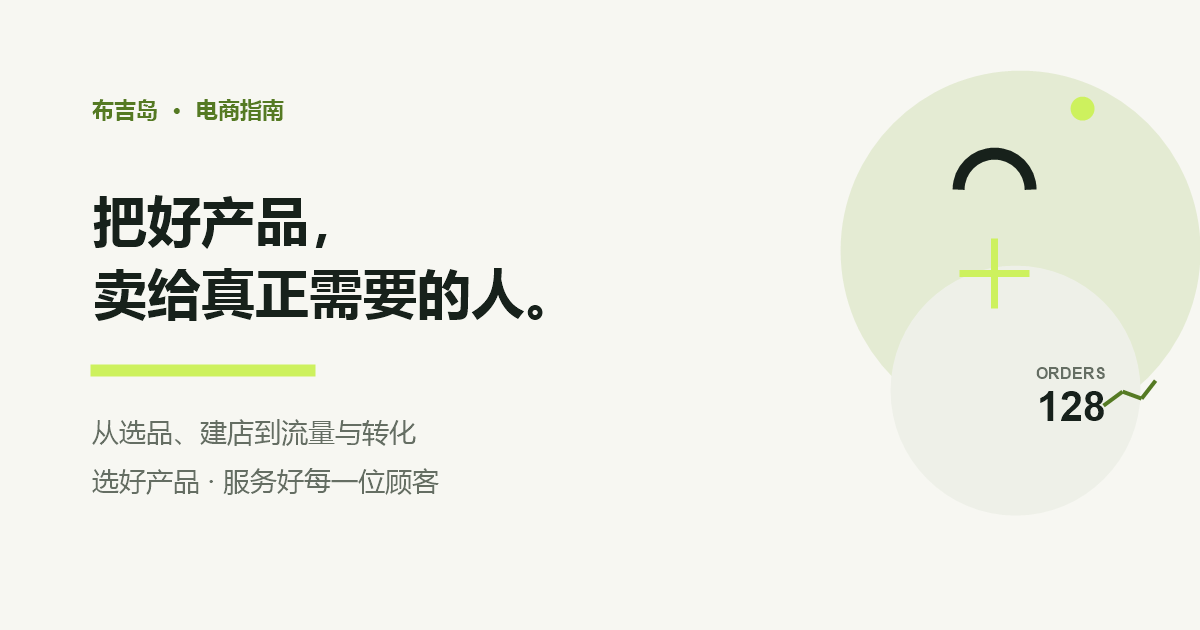
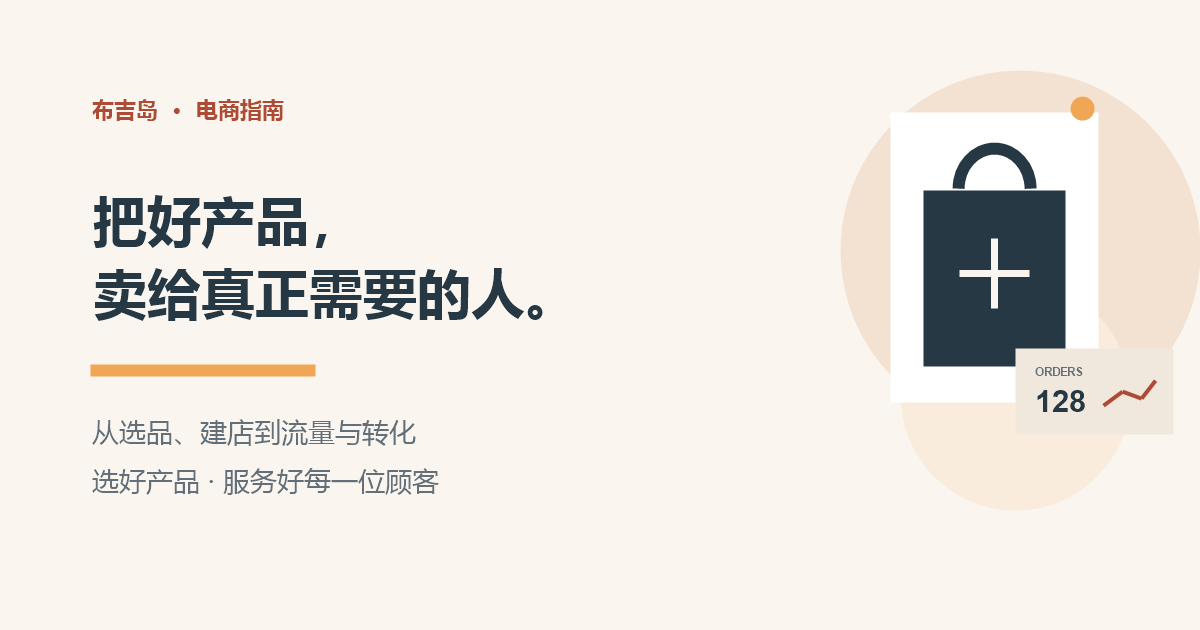
Refresh e-commerce guide color palette

diff --git a/docs/.vitepress/theme/custom.css b/docs/.vitepress/theme/custom.css
@@ -1,56 +1,56 @@
 :root {
-  --vp-c-brand-1: #557a23;
-  --vp-c-brand-2: #496a1d;
-  --vp-c-brand-3: #3f5c19;
-  --vp-c-brand-soft: rgba(151, 191, 72, .14);
-  --vp-home-hero-name-color: #17211b;
-  --vp-home-hero-name-background: linear-gradient(120deg, #17211b 55%, #86aa3a);
-  --vp-button-brand-bg: #17211b;
-  --vp-button-brand-hover-bg: #32482a;
-  --vp-button-brand-active-bg: #263921;
-  --vp-button-brand-border: #17211b;
-  --vp-button-brand-hover-border: #32482a;
-  --vp-button-brand-active-border: #263921;
+  --vp-c-brand-1: #a94b34;
+  --vp-c-brand-2: #913f2d;
+  --vp-c-brand-3: #793323;
+  --vp-c-brand-soft: rgba(169, 75, 52, .12);
+  --vp-home-hero-name-color: #263844;
+  --vp-home-hero-name-background: linear-gradient(120deg, #263844 55%, #b65337);
+  --vp-button-brand-bg: #263844;
+  --vp-button-brand-hover-bg: #354b57;
+  --vp-button-brand-active-bg: #1d2d37;
+  --vp-button-brand-border: #263844;
+  --vp-button-brand-hover-border: #354b57;
+  --vp-button-brand-active-border: #1d2d37;
   --vp-font-family-base: 'Noto Sans SC', 'PingFang SC', 'Microsoft YaHei', sans-serif;
   --vp-font-family-mono: 'DM Mono', 'SFMono-Regular', Consolas, monospace;
-  --vp-c-bg: #f7f7f2;
-  --vp-c-bg-soft: #eef0e8;
-  --vp-c-bg-alt: #f0f1eb;
+  --vp-c-bg: #faf6ef;
+  --vp-c-bg-soft: #f1e8dd;
+  --vp-c-bg-alt: #f5eee6;
 }
 
 .dark {
-  --vp-c-bg: #151b15;
-  --vp-c-bg-alt: #111711;
-  --vp-c-bg-elv: #202820;
-  --vp-c-bg-soft: #1e271d;
-  --vp-c-border: #394536;
-  --vp-c-divider: #2b3628;
-  --vp-c-gutter: #111711;
-  --vp-c-text-1: #edf1e7;
-  --vp-c-text-2: #c0c9b8;
-  --vp-c-text-3: #939d8a;
-  --vp-c-gray-1: #394536;
-  --vp-c-gray-2: #2f3a2c;
-  --vp-c-gray-3: #263024;
-  --vp-c-gray-soft: rgba(205, 241, 94, .08);
-  --vp-c-default-1: #394536;
-  --vp-c-default-2: #2f3a2c;
-  --vp-c-default-3: #263024;
-  --vp-c-default-soft: rgba(205, 241, 94, .08);
-  --vp-c-brand-1: #cdf15e;
-  --vp-c-brand-2: #b9df54;
-  --vp-c-brand-3: #a4c847;
-  --vp-c-brand-soft: rgba(205, 241, 94, .14);
-  --vp-home-hero-name-color: #edf1e7;
-  --vp-home-hero-name-background: linear-gradient(120deg, #edf1e7 55%, #cdf15e);
-  --vp-button-brand-bg: #cdf15e;
-  --vp-button-brand-text: #17211b;
-  --vp-button-brand-hover-bg: #dbf891;
-  --vp-button-brand-hover-text: #17211b;
-  --vp-button-brand-active-bg: #b9df54;
-  --vp-button-brand-border: #cdf15e;
-  --vp-button-brand-hover-border: #dbf891;
-  --vp-button-brand-active-border: #b9df54;
+  --vp-c-bg: #17232d;
+  --vp-c-bg-alt: #141e27;
+  --vp-c-bg-elv: #23323d;
+  --vp-c-bg-soft: #202f39;
+  --vp-c-border: #3c4c56;
+  --vp-c-divider: #2e3e48;
+  --vp-c-gutter: #141e27;
+  --vp-c-text-1: #f5eee4;
+  --vp-c-text-2: #c9c7be;
+  --vp-c-text-3: #9ea8aa;
+  --vp-c-gray-1: #3c4c56;
+  --vp-c-gray-2: #31414b;
+  --vp-c-gray-3: #273741;
+  --vp-c-gray-soft: rgba(240, 166, 84, .09);
+  --vp-c-default-1: #3c4c56;
+  --vp-c-default-2: #31414b;
+  --vp-c-default-3: #273741;
+  --vp-c-default-soft: rgba(240, 166, 84, .09);
+  --vp-c-brand-1: #f1a17f;
+  --vp-c-brand-2: #e68a68;
+  --vp-c-brand-3: #d97554;
+  --vp-c-brand-soft: rgba(241, 161, 127, .15);
+  --vp-home-hero-name-color: #f5eee4;
+  --vp-home-hero-name-background: linear-gradient(120deg, #f5eee4 55%, #f1a17f);
+  --vp-button-brand-bg: #f0a17e;
+  --vp-button-brand-text: #1e2d36;
+  --vp-button-brand-hover-bg: #f6b496;
+  --vp-button-brand-hover-text: #1e2d36;
+  --vp-button-brand-active-bg: #df8b69;
+  --vp-button-brand-border: #f0a17e;
+  --vp-button-brand-hover-border: #f6b496;
+  --vp-button-brand-active-border: #df8b69;
 }
 
 .VPNavBarTitle .title { font-weight: 750; letter-spacing: -.035em; }
@@ -66,14 +66,14 @@
 .VPHomeFeatures .items { justify-content: center; }
 .VPDoc .content-container { max-width: 760px; }
 .VPDoc h1, .VPDoc h2 { letter-spacing: -.04em; }
-.guide-note { margin: 36px 0; padding: 20px 24px; background: var(--vp-c-bg-soft); border-left: 3px solid #9abb50; border-radius: 0 5px 5px 0; color: var(--vp-c-text-2); font-size: 14px; line-height: 1.9; }
+.guide-note { margin: 36px 0; padding: 20px 24px; background: var(--vp-c-bg-soft); border-left: 3px solid #c87455; border-radius: 0 5px 5px 0; color: var(--vp-c-text-2); font-size: 14px; line-height: 1.9; }
 .guide-note strong { color: var(--vp-c-text-1); }
 .VPHomeHero.has-image .container { align-items: center; }
 .VPHomeHero.has-image .main { flex: 1 1 58%; min-width: 0; }
 .VPHomeHero.has-image .image { flex: 0 1 42%; min-width: 0; transform: translateX(40px); }
 .VPHomeHero.has-image .image-bg { display: none !important; }
 .VPHomeHero.has-image .image-container { height: clamp(340px, 42vh, 450px); }
-.VPHomeHero.has-image .image-src { width: auto !important; height: 100% !important; max-width: min(100%, 400px) !important; max-height: 450px !important; object-fit: contain; transform: translate(-50%, -50%) scale(1.12) translateY(20px) !important; filter: drop-shadow(0 20px 26px rgba(23, 33, 27, .12)); }
+.VPHomeHero.has-image .image-src { width: auto !important; height: 100% !important; max-width: min(100%, 400px) !important; max-height: 450px !important; object-fit: contain; transform: translate(-50%, -50%) scale(1.12) translateY(20px) !important; filter: drop-shadow(0 20px 26px rgba(38, 56, 68, .14)); }
 
 @media (min-width: 640px) and (max-width: 959px) {
   .VPHomeHero.has-image .container { flex-direction: row; gap: 20px; }
